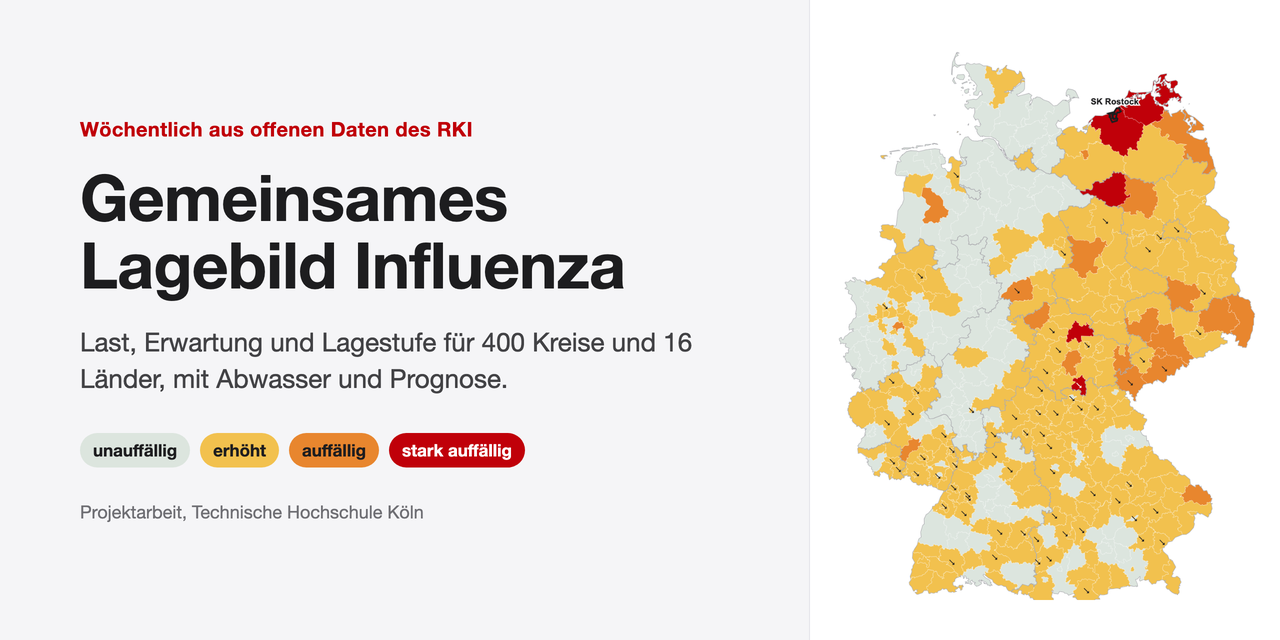
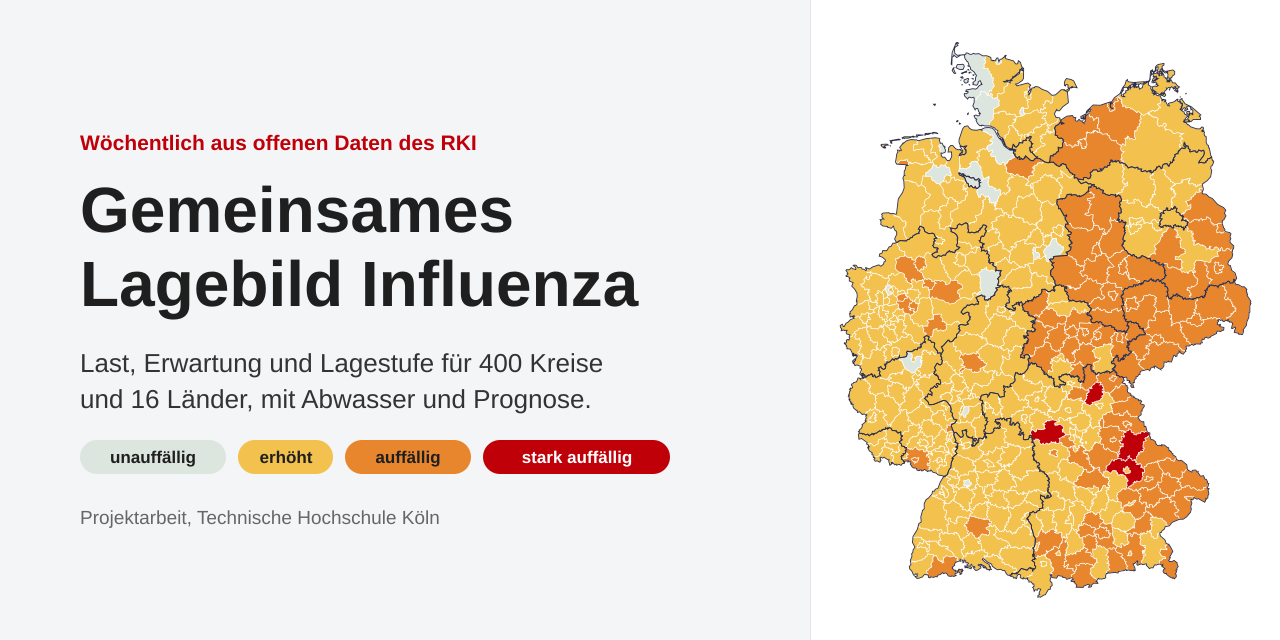
Titelbild oben im README
Claude-Session: https://claude.ai/code/session_01XFHzWM4faRzLBdFzYCn4tt

Changed region(s): [[0.6562, 0.0625, 1.0, 0.9375], [0.0625, 0.1875, 0.5625, 0.75], [0.0625, 0.7812, 0.3438, 0.8438]]

diff --git a/README.md b/README.md
@@ -1,6 +1,6 @@
 <div align="center">
 
-# Gemeinsames Lagebild Influenza
+<img src=".github/bilder/link-vorschau.png" alt="Gemeinsames Lagebild Influenza" width="100%">
 
 **Wo in Deutschland ist Influenza gerade ungewöhnlich, und was folgt daraus?**<br>
 Jede Woche für alle 400 Kreise und 16 Länder: Last, Erwartung und Lagestufe, dazu Abwasser und Prognose.
